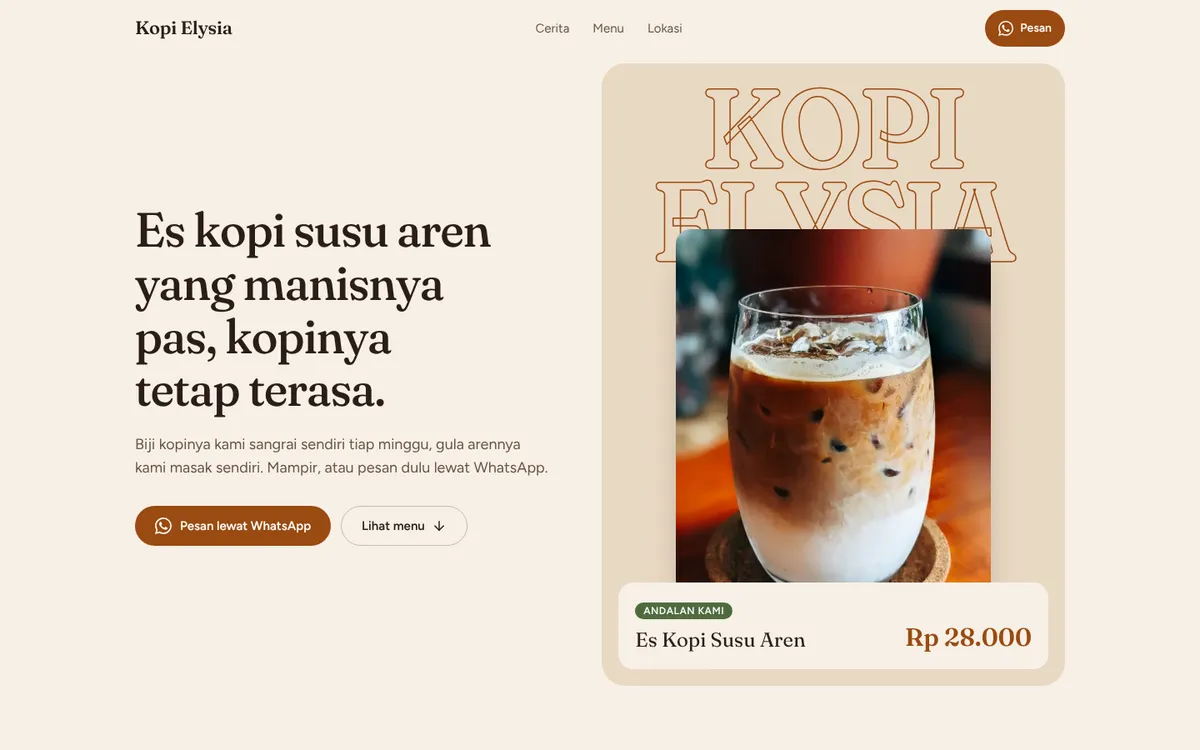
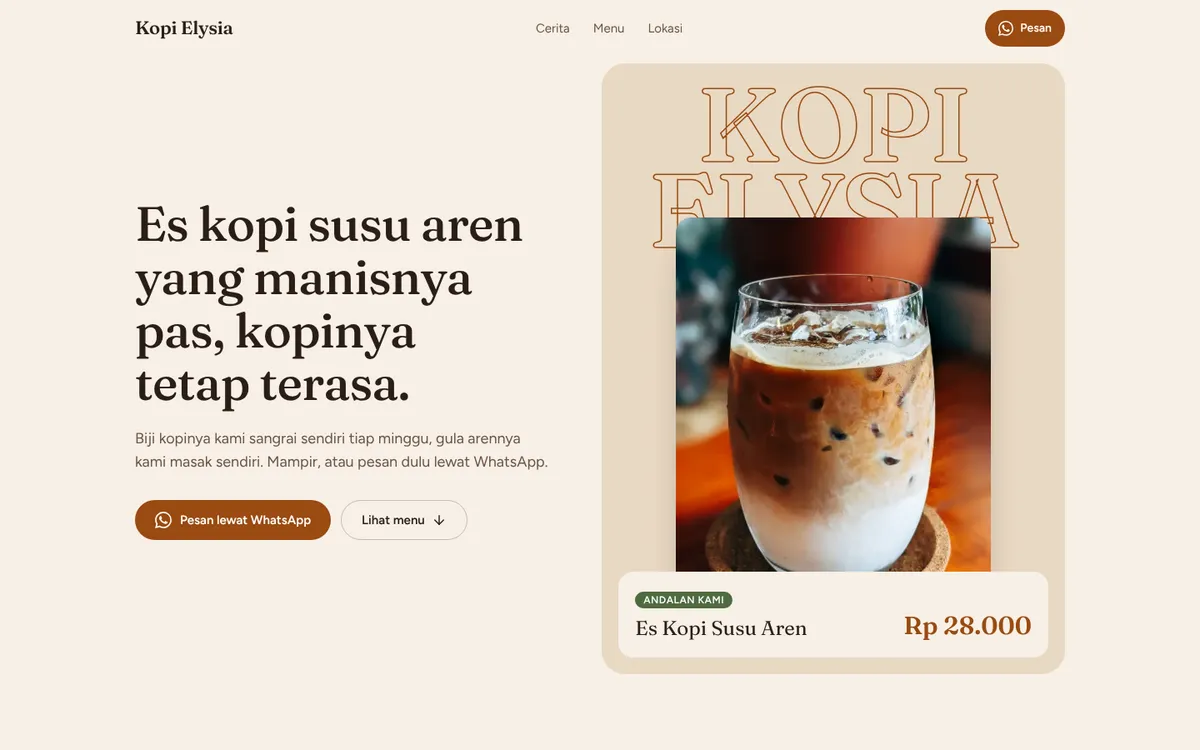
software: faster Kafe hero (fetchpriority, lighter Fraunces)
The hero photo is the page's LCP, so it is now fetched with high priority and
never lazy. Fraunces loads with its weight axis only: the SOFT and opsz axes
tripled the font (37 KB to 118 KB) and competed with the photo on slow phones.
The wordmark and headline are re-fitted to the slightly wider letters, and the
card screenshot is refreshed.

Claude-Session: https://claude.ai/code/session_016xwuaDLoz9sKNpF7QX72Bj

diff --git a/apps/software/templates/kafe/sections/Hero.tsx b/apps/software/templates/kafe/sections/Hero.tsx
@@ -30,7 +30,7 @@ export function Hero({ c, signature, orderHref }: { c: KafeContent; signature: K
           <div className="kafe-stage-photo relative z-10 mx-auto w-[68%]">
             <Photo
               photo={c.hero.photo}
-              preload
+              lcp
               sizes="(min-width: 1180px) 400px, (min-width: 1024px) 35vw, 62vw"
               className="aspect-[4/5] rounded-kafe-sm shadow-[0_24px_48px_-24px_rgb(0_0_0/0.45)]"
             />
@@ -47,7 +47,7 @@ export function Hero({ c, signature, orderHref }: { c: KafeContent; signature: K
         </div>
 
         <div className="lg:order-1">
-          <h1 id="hero-title" className="kafe-rise text-[36px] sm:text-[52px] lg:text-[58px]">
+          <h1 id="hero-title" className="kafe-rise text-[34px] sm:text-[52px] lg:text-[58px]">
             {c.hero.title}
           </h1>
           <p className="kafe-rise mt-5 max-w-[34rem] text-[17px] text-kafe-muted sm:text-lg" style={{ "--i": 1 } as React.CSSProperties}>

diff --git a/apps/software/templates/kafe/kafe.css b/apps/software/templates/kafe/kafe.css
@@ -54,7 +54,6 @@
     letter-spacing: -0.015em;
     line-height: 1.1;
     text-wrap: balance;
-    font-variation-settings: "SOFT" 50, "opsz" 72;
   }
   p {
     text-wrap: pretty;
@@ -70,7 +69,7 @@
    (container query units) and the longest word (--longest), so any business name fits. */
 .kafe-wordmark,
 .kafe-stage-photo {
-  --wm: min(calc(94cqw / (var(--longest) * 0.64)), 12rem);
+  --wm: min(calc(92cqw / (var(--longest) * 0.68)), 12rem);
 }
 .kafe-wordmark {
   font-family: var(--kafe-font-display);
@@ -81,7 +80,6 @@
   text-transform: uppercase;
   color: transparent;
   -webkit-text-stroke: 1.5px var(--kafe-accent);
-  font-variation-settings: "SOFT" 100, "opsz" 144;
 }
 /* The photo starts halfway down the second line of the wordmark. */
 .kafe-stage-photo {

diff --git a/apps/software/templates/kafe/theme.ts b/apps/software/templates/kafe/theme.ts
@@ -4,12 +4,8 @@ import type { CSSProperties } from "react";
 import { Figtree, Fraunces } from "next/font/google";
 import type { KafeContent } from "./schema";
 
-const fraunces = Fraunces({
-  subsets: ["latin"],
-  axes: ["SOFT", "opsz"],
-  variable: "--font-fraunces",
-  display: "swap",
-});
+// Weight axis only: the SOFT and opsz axes would triple the font file (37 KB → 118 KB) and slow the hero.
+const fraunces = Fraunces({ subsets: ["latin"], variable: "--font-fraunces", display: "swap" });
 const figtree = Figtree({ subsets: ["latin"], variable: "--font-figtree", display: "swap" });
 
 export const kafeFontClassName = `${fraunces.variable} ${figtree.variable}`;

diff --git a/apps/software/templates/kafe/parts.tsx b/apps/software/templates/kafe/parts.tsx
@@ -75,12 +75,13 @@ export function Photo({
   photo,
   sizes,
   className = "",
-  preload = false,
+  lcp = false,
 }: {
   photo: KafePhoto;
   sizes: string;
   className?: string;
-  preload?: boolean;
+  /** The page's Largest Contentful Paint image: fetched first, never lazy. */
+  lcp?: boolean;
 }) {
   return (
     <div className={`relative overflow-hidden ${className}`}>
@@ -89,7 +90,8 @@ export function Photo({
         alt={photo.alt}
         fill
         sizes={sizes}
-        preload={preload}
+        loading={lcp ? "eager" : "lazy"}
+        fetchPriority={lcp ? "high" : "auto"}
         className="object-cover"
       />
     </div>
